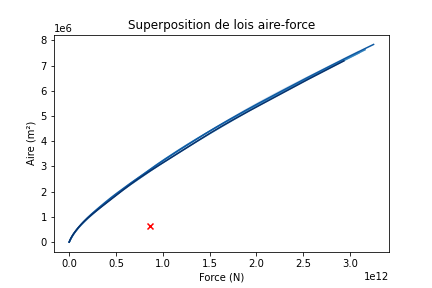
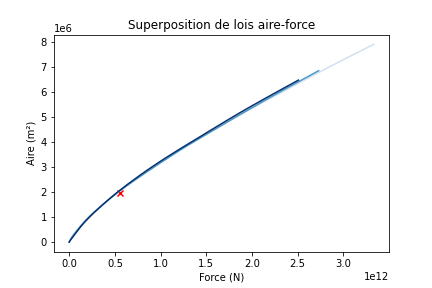
pour voir les individus

diff --git a/genetique.py b/genetique.py
@@ -16,6 +16,7 @@ def creer_individu():
         Individu creer aleatoirement.
 
     """
+
     individu = Individu()
     return individu
 
@@ -179,9 +180,23 @@ def genetique(points, limite=None):
     None.
 
     """
+    liste_courbes = []
+
     N = 50  # Taille de la population
     population = creer_population(N)
-    liste_courbes = []
+    
+    # for individu in population:
+        
+    #     aires, forces = algo_direct.loi_totale(
+    #                     individu.get_rayons_courbure(),
+    #                     individu.get_hauteurs())
+    #     liste_courbes.append((aires, forces))
+    #     affichage.superposer_lois_degrade(liste_courbes, points=points)
+    # affichage.loi(aires, forces)
+    # affichage.hauteur(individu.get_hauteurs())
+        
+    #return
+
     for i in range(100):  # On fait 100 generations
         population = nouvelle_generation(population, points)
         mutation(population)
@@ -197,4 +212,4 @@ def genetique(points, limite=None):
 
 
 if __name__ == "__main__":
-    genetique([(861926869219, 619507)])
+    genetique([(558208229327, 1956593)])
